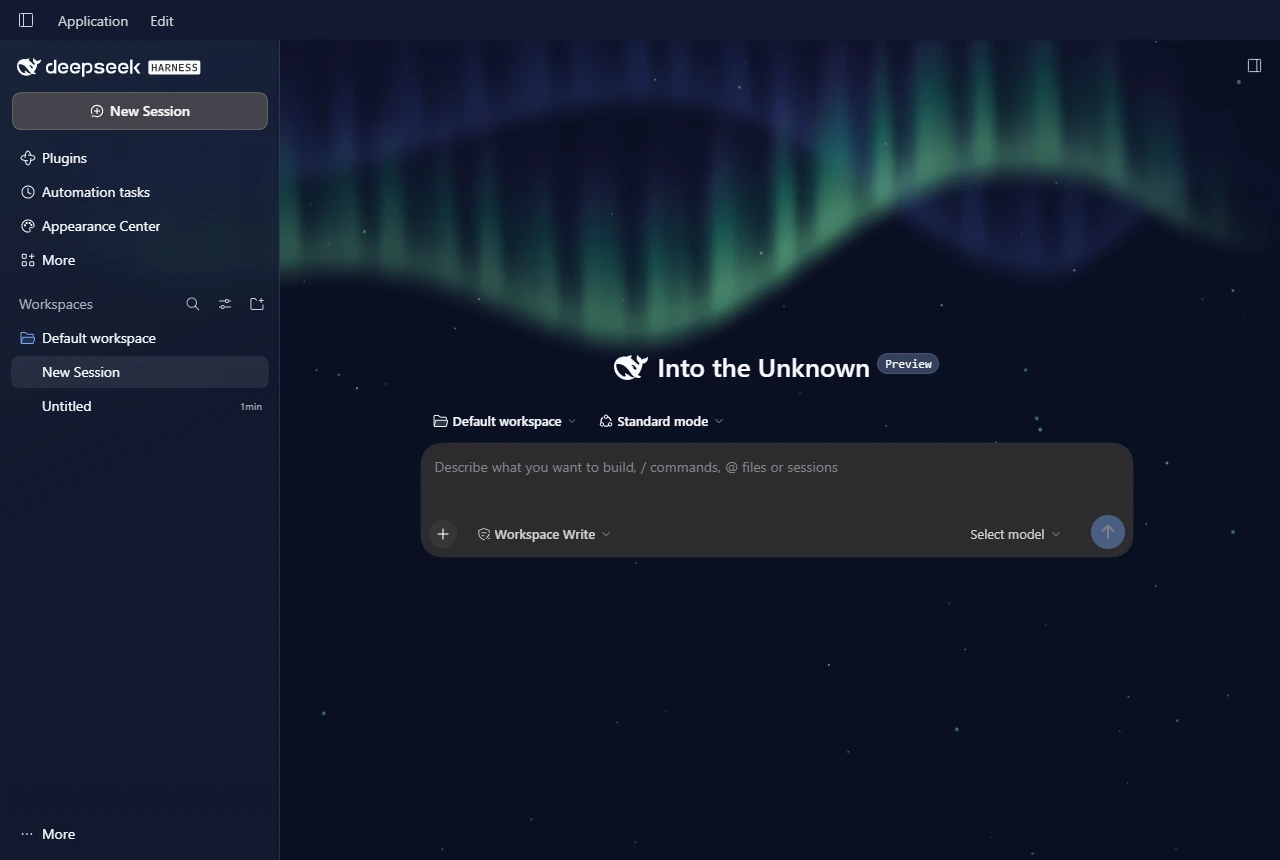
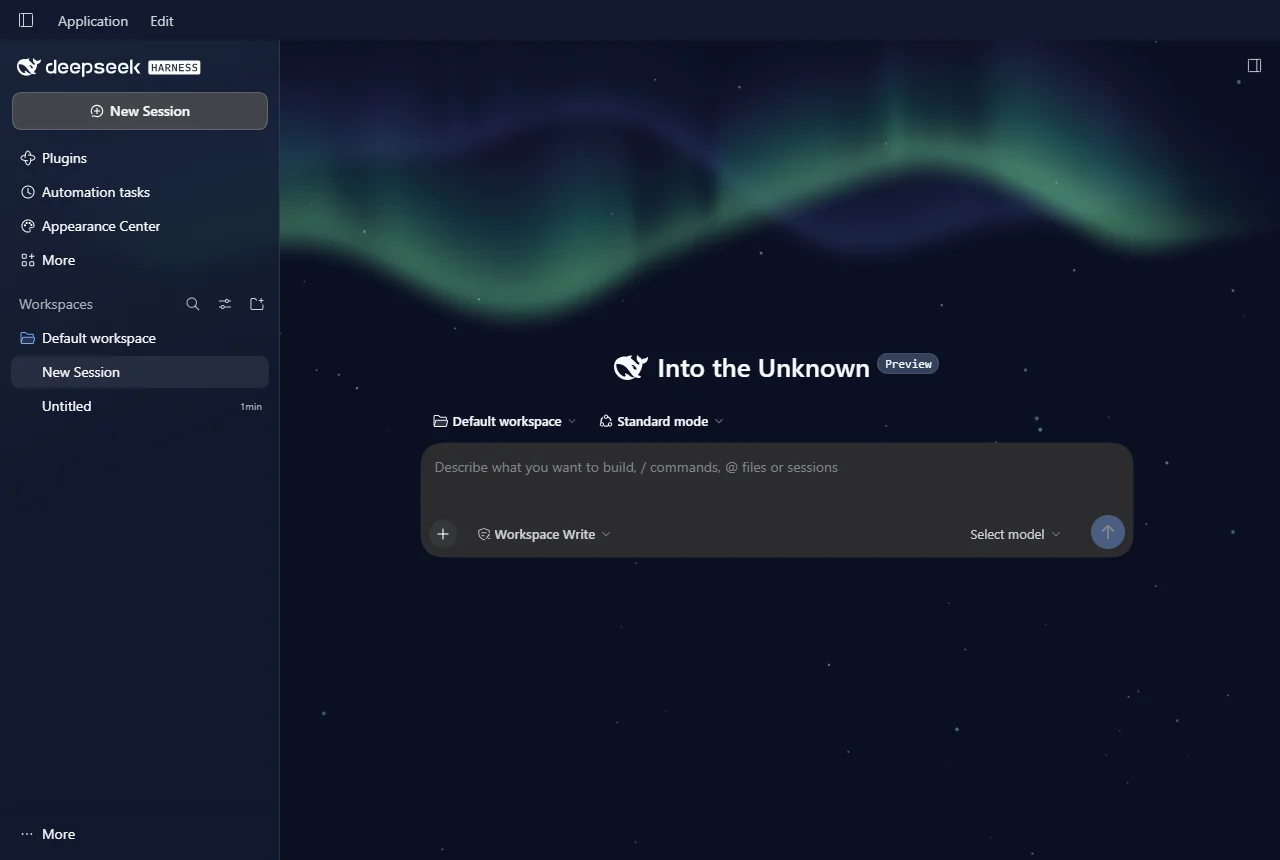
Record the revised Aurora V2 dual-host acceptance

Changed region(s): [[0.2188, 0.0605, 0.9375, 0.4233], [0.4688, 0.0605, 0.5938, 0.1209], [0.4062, 0.0605, 0.4375, 0.1209]]

diff --git a/docs/aurora-v2-curtain.md b/docs/aurora-v2-curtain.md
@@ -1,6 +1,6 @@
 # Aurora V2 · 连续动态光幕
 
-Aurora V2 `0.2.0` 使用新的 `ambient.aurora-curtain` 效果。青绿主幕缓慢横移，靛紫副幕提供纵深。光带轮廓和沿带分布的竖向褶皱由引擎逐帧计算，亮度、流速和褶皱幅度可在「外观中心 → 效果与性能」独立调整。星点继续使用 `particles.starfield`，位置固定，亮度缓慢变化。
+Aurora V2 `0.2.0` 使用新的 `ambient.aurora-curtain` 效果。青绿主幕缓慢横移，靛紫副幕提供纵深。光带的弧度、亮度和褶皱疏密缓慢变化。亮度、流速和褶皱幅度可在「外观中心 → 效果与性能」独立调整。星点继续使用 `particles.starfield`，位置固定，亮度缓慢变化。
 
 | 设置 | 表现 |
 | --- | --- |
@@ -17,7 +17,7 @@ Aurora V2 `0.2.0` 使用新的 `ambient.aurora-curtain` 效果。青绿主幕缓
 ```powershell
 npm ci --ignore-scripts
 npm run build
-$dest = '.cache/a-v2-02/final-lightfield'
+$dest = '.cache/a-v2-02/final'
 New-Item -ItemType Directory -Path $dest -Force
 npm pack --ignore-scripts --pack-destination $dest
 node scripts/pack-samples.mjs --source skin-sources/examples/skins/aurora-v2 $dest
@@ -25,13 +25,13 @@ node scripts/pack-samples.mjs --source skin-sources/examples/skins/aurora-v2 $de
 
 在「外观中心 → 皮肤库」导入 `com.dsh.skin.aurora-v2.dshskin.zip`。已安装 0.1.0 的配置可从「皮肤管理」选择「从 .dshskin.zip 更新」。两版使用同一 V2 ID，原版 Aurora 仍是独立的内置皮肤。在 1.12.0 候选中可通过皮肤管理回退 V2 ZIP。降级至 1.11.4 时，先退出 DSH，再使用升级前的配置备份恢复选择文件。[配置回退说明](release-v1.md#回滚)
 
-可信 Provider 在一个有界的 Canvas 缓冲中合成主幕、副幕和远层，复用窗口的共享动画时钟，光幕每秒最多重绘 20 次。光幕的下缘通过连续衰减淡入夜空，褶皱在光幕内部改变高度和透光强度。皮肤包声明效果参数，画廊封面来自隔离 Windows DSH 实拍。
+可信 Provider 在一个有界的 Canvas 缓冲中合成主幕、副幕和远层，复用窗口的共享动画时钟，光幕每秒最多重绘 20 次。光幕下缘淡入夜空，褶皱沿光带聚拢和散开，细小的亮纹在褶皱内缓慢漂移。皮肤包声明效果参数，画廊封面来自隔离 Windows DSH 实拍。
 
 ## 实拍与验证
 
 官方 DSH Web 和 Windows Desktop `0.2.2-rc.5` 使用同一份候选引擎和皮肤 ZIP。两个宿主各取三个时刻，独立光幕缓冲的像素摘要均变化。低画质、静态、减少动效分别保持光幕像素稳定，恢复系统动效后继续变化。亮度归零时只隐藏光幕。流速和褶皱幅度的保存值分别为 25% 和 51%。
 
-Web 从 V2 Alpha `0.1.0` 更新到 `0.2.0` 后保留既有偏好。Windows 另检查了 760 CSS 像素宽的正文和输入区。两端切回原版后恢复原版 Aurora，页面和 Provider 无错误，测试宿主均已退出。[产物校验值和逐项记录](evidence/a-v2-02.json)
+Web 从 V2 Alpha `0.1.0` 升级后，已关闭的极光继续保持关闭，编辑器继承原有的 24% 亮度。重新开启后，新光幕沿用该亮度并保存自己的偏好，旧偏好仍可用于回退。Windows 另检查了 760 CSS 像素宽的正文和输入区。两端切回原版后恢复原版 Aurora，页面和 Provider 无错误，测试宿主均已退出。[产物校验值和逐项记录](evidence/a-v2-02.json)
 
 | Aurora 原版 | 连续光幕 · 第一个时刻 |
 | --- | --- |
